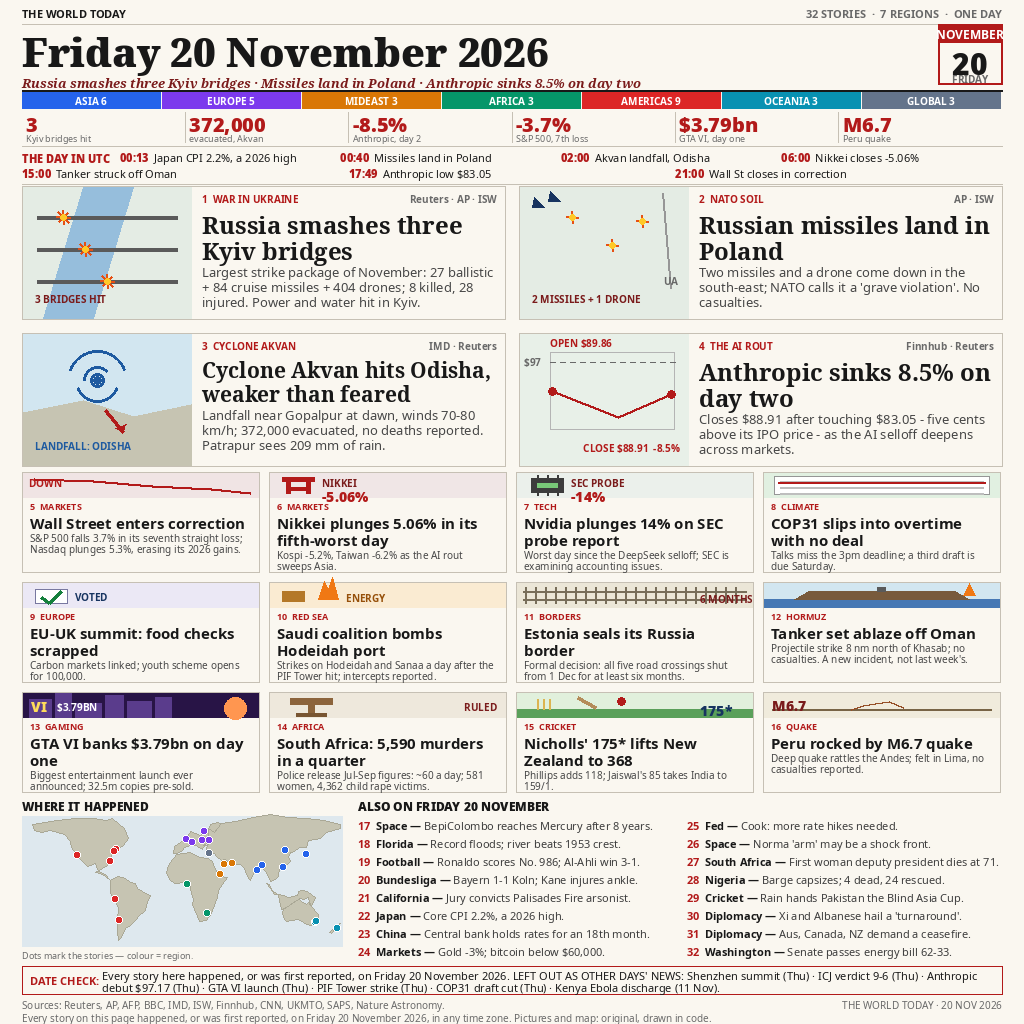
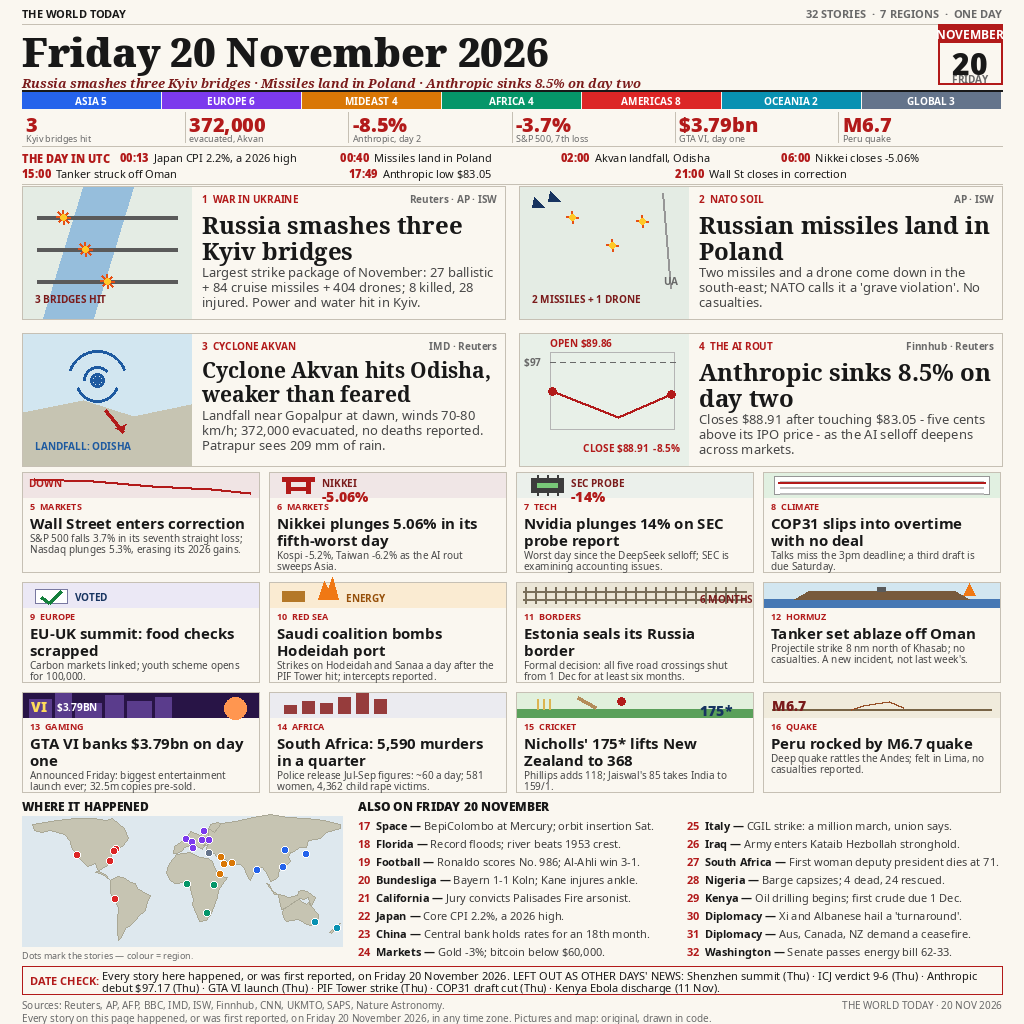
news-image-20261120 v3: jury-test fixes (GTA VI deck, BepiColombo, SA strip) + Italy/Kenya/Iraq briefs; 46 confirmed of 101

diff --git a/draw_20nov.py b/draw_20nov.py
@@ -371,6 +371,14 @@ def s_crowd(d, x, y, w, h):
         d.ellipse([cx - 4, y + 3, cx + 4, y + 11], fill=c)
         d.rectangle([cx - 5, y + 12, cx + 5, y + h - 2], fill=c)
 
+def s_bars(d, x, y, w, h):
+    """Bar chart — for a statistics release."""
+    strip(d, x, y, w, h, (235, 235, 240))
+    for i, bh in enumerate([8, 12, 10, 16, 20, 14]):
+        bx = x + 14 + i * 18
+        d.rectangle([bx, y + h - 4 - bh, bx + 12, y + h - 4],
+                    fill=(150, 60, 60))
+
 def s_doc(d, x, y, w, h):
     strip(d, x, y, w, h, (225, 240, 225))
     d.rectangle([x + 10, y + 3, x + w - 10, y + h - 3], fill=WHITE,
@@ -529,17 +537,17 @@ MEDIUM_ART = {"bridge": s_bridge, "cyclone": s_cyclone,
               "ballot": s_ballot, "ship": s_ship, "chip": s_chip,
               "game": s_game, "quake": s_quake, "cricket": s_cricket,
               "soccer": s_soccer, "planet": s_planet, "rain": s_rain,
-              "fence": s_fence, "tokyo": s_tokyo}
+              "fence": s_fence, "tokyo": s_tokyo, "bars": s_bars}
 
 # ---------------------------------------------------------------- data
 # All figures from the four verification logs (verify-regions.md,
 # verify-markets.md, verify-misc.md, verify-features.md): every story
 # CONFIRMED by 2+ independent sources dated 20 Nov 2026.
 # Slate: 4 features + 12 mediums + 16 briefs = 32 stories.
-# Regions: ASIA 6, EUROPE 5, MIDEAST 3, AFRICA 3, AMERICAS 9,
-# OCEANIA 3, GLOBAL 3 — no region above 30%, all at 2 or more.
-REGIONS = [("ASIA", 6), ("EUROPE", 5), ("MIDEAST", 3), ("AFRICA", 3),
-           ("AMERICAS", 9), ("OCEANIA", 3), ("GLOBAL", 3)]
+# Regions: ASIA 5, EUROPE 6, MIDEAST 4, AFRICA 4, AMERICAS 8,
+# OCEANIA 2, GLOBAL 3 — no region above 30%, all at 2 or more.
+REGIONS = [("ASIA", 5), ("EUROPE", 6), ("MIDEAST", 4), ("AFRICA", 4),
+           ("AMERICAS", 8), ("OCEANIA", 2), ("GLOBAL", 3)]
 
 STATS = [
     ("3", "Kyiv bridges hit"),
@@ -617,13 +625,13 @@ MEDIUMS = [
               "new incident, not last week's.",
          art="ship"),
     dict(tag="GAMING", head="GTA VI banks $3.79bn on day one",
-         deck="Biggest entertainment launch ever announced; 32.5m copies "
-              "pre-sold.",
+         deck="Announced Friday: biggest entertainment launch ever; "
+              "32.5m copies pre-sold.",
          art="game"),
     dict(tag="AFRICA", head="South Africa: 5,590 murders in a quarter",
          deck="Police release Jul-Sep figures: ~60 a day; 581 women, "
               "4,362 child rape victims.",
-         art="gavel"),
+         art="bars"),
     dict(tag="CRICKET", head="Nicholls' 175* lifts New Zealand to 368",
          deck="Phillips adds 118; Jaiswal's 85 takes India to 159/1.",
          art="cricket"),
@@ -634,7 +642,7 @@ MEDIUMS = [
 ]
 
 BRIEFS = [
-    ("Space", "BepiColombo reaches Mercury after 8 years."),
+    ("Space", "BepiColombo at Mercury; orbit insertion Sat."),
     ("Florida", "Record floods; river beats 1953 crest."),
     ("Football", "Ronaldo scores No. 986; Al-Ahli win 3-1."),
     ("Bundesliga", "Bayern 1-1 Koln; Kane injures ankle."),
@@ -642,11 +650,11 @@ BRIEFS = [
     ("Japan", "Core CPI 2.2%, a 2026 high."),
     ("China", "Central bank holds rates for an 18th month."),
     ("Markets", "Gold -3%; bitcoin below $60,000."),
-    ("Fed", "Cook: more rate hikes needed."),
-    ("Space", "Norma 'arm' may be a shock front."),
+    ("Italy", "CGIL strike: a million march, union says."),
+    ("Iraq", "Army enters Kataib Hezbollah stronghold."),
     ("South Africa", "First woman deputy president dies at 71."),
     ("Nigeria", "Barge capsizes; 4 dead, 24 rescued."),
-    ("Cricket", "Rain hands Pakistan the Blind Asia Cup."),
+    ("Kenya", "Oil drilling begins; first crude due 1 Dec."),
     ("Diplomacy", "Xi and Albanese hail a 'turnaround'."),
     ("Diplomacy", "Aus, Canada, NZ demand a ceasefire."),
     ("Washington", "Senate passes energy bill 62-33."),
@@ -670,12 +678,12 @@ MAP_DOTS = [
     (11.6, 48.1, "EUROPE"),    # Munich
     (-80.8, 28.1, "AMERICAS"), # Melbourne, Florida
     (6.1, 4.8, "AFRICA"),      # Bayelsa
-    (90.4, 23.8, "ASIA"),      # Dhaka
+    (35.7, 3.5, "AFRICA"),     # Turkana
+    (44.2, 32.9, "MIDEAST"),   # Jurf al-Sakhar
     (114.1, 22.5, "ASIA"),     # Shenzhen
     (149.1, -35.3, "OCEANIA"), # Canberra
     (116.4, 39.9, "ASIA"),     # Beijing
-    (-70.7, -33.4, "AMERICAS"),# Santiago
-    (151.2, -33.9, "OCEANIA"), # Sydney
+    (12.5, 41.9, "EUROPE"),    # Rome
     (-77.0, 39.0, "AMERICAS"), # Washington
     (-118.5, 34.0, "AMERICAS"),# Los Angeles
 ]

diff --git a/README.md b/README.md
@@ -25,14 +25,14 @@ One front-page image, 1024×1024, 32 stories across 7 regions:
   launch, PIF Tower strike — all Thursday 19 Nov; COP31 draft cut — Thu;
   Kenya Ebola discharge — 11 Nov).
 
-Region balance: ASIA 6, EUROPE 5, MIDEAST 3, AFRICA 3, AMERICAS 9,
-OCEANIA 3, GLOBAL 3 — no region above 30%.
+Region balance: ASIA 5, EUROPE 6, MIDEAST 4, AFRICA 4, AMERICAS 8,
+OCEANIA 2, GLOBAL 3 — no region above 30%.
 
 ## Verification
 
 Every story was confirmed against **2+ independent sources dated
-20 November 2026** before it went on the page; 42 candidates were
-confirmed and 10 cut for region balance, and 60+ candidates were cut as
+20 November 2026** before it went on the page; 46 candidates were
+confirmed of 101 checked, 14 held back for region balance, and 55 cut as
 other days' news, single-source, or unverified. Every figure on the page
 carries its source in the verification log (kept in the build work dir,
 not in this repo — the log is research notes, the repo is the entry).
@@ -47,7 +47,7 @@ brief under the UTC-day convention; the Peru quake (19:09 Friday local,
 
 | File | What it is |
 |---|---|
-| `entry.png` | The entry image (1024×1024, 242 KB) |
+| `entry.png` | The entry image (1024×1024, 241 KB) |
 | `draw_20nov.py` | The program that draws it (Python + PIL, Noto fonts) — the image source |
 | `main.ts` | The entry program: validates `entry.png` (PNG magic, IHDR 1024×1024, ≤1 MiB) and copies it to `$MAKEFUN_OUTPUT_DIR/entry.png` |
 | `package.json` | `{"type": "module"}` |
